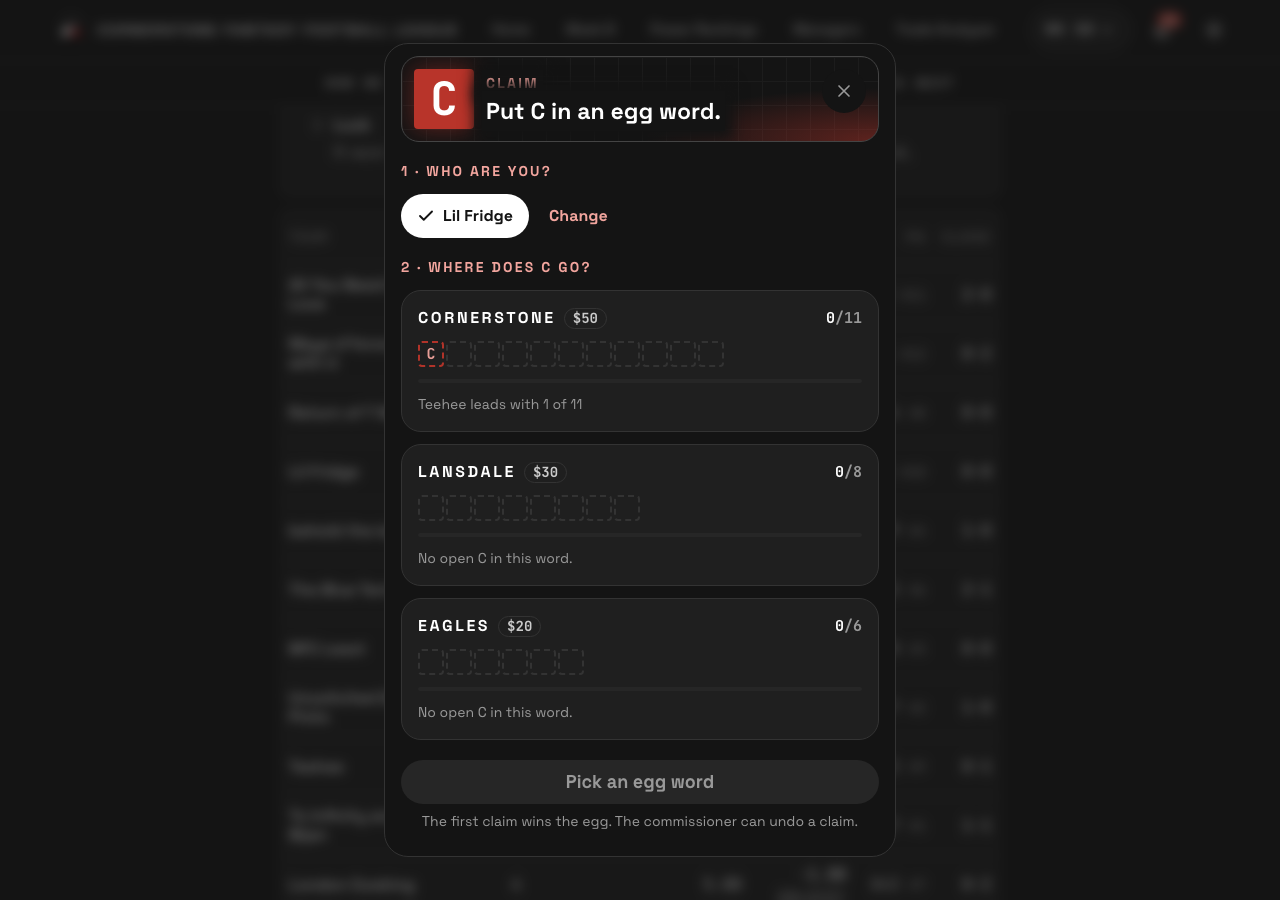
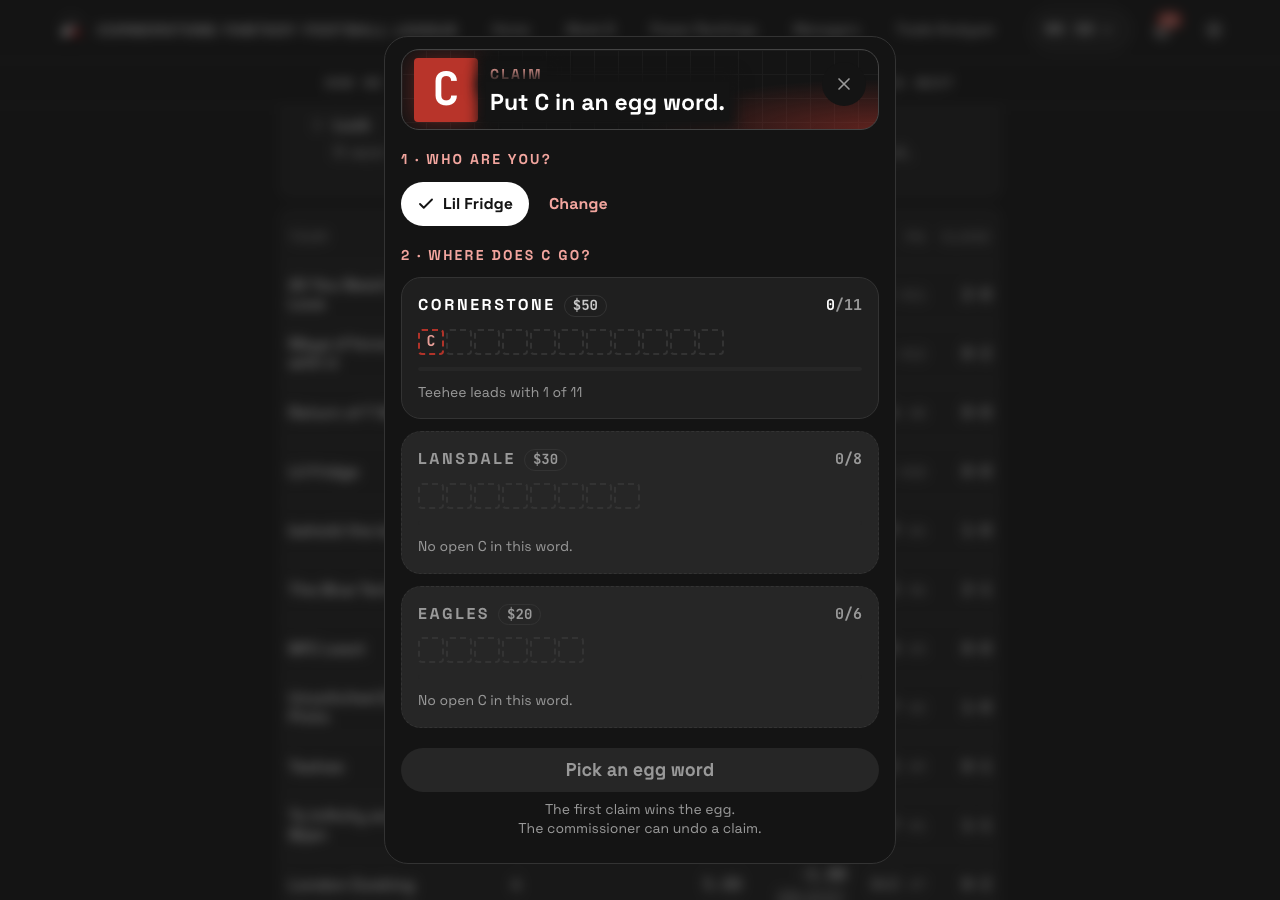
Record the evidence of easter-eggs again

diff --git a/.scratch/easter-eggs/evidence/tools/site.spec.ts b/.scratch/easter-eggs/evidence/tools/site.spec.ts
@@ -170,6 +170,11 @@ async function crack(page: Page) {
   await expect(page.getByTestId("egg-letter")).toBeVisible();
 }
 
+/* The full text of the banner line and whether the line is cut: its scrollWidth is wider than its clientWidth. */
+async function bannerLine(page: Page) {
+  return page.locator("[data-banner-line]").evaluate((line) => `line "${(line.textContent ?? "").replace(/\s+/g, " ").trim()}", scrollWidth ${line.scrollWidth}, clientWidth ${line.clientWidth}, cut ${line.scrollWidth > line.clientWidth}, height ${Math.round(line.getBoundingClientRect().height)} px`);
+}
+
 test.describe.configure({ mode: "serial" });
 test.setTimeout(0);
 
@@ -405,7 +410,7 @@ test("phase A1: six eggs, none claimed", async ({ browser }) => {
     await expect(banner).toBeVisible();
     await page.waitForTimeout(1200);
     await shot(page, "AT-41", "tuesday", width, theme);
-    log("AT-41", `tuesday ${width}-${theme} (clock 2026-11-10 12:00 ET): "${(await banner.innerText()).replace(/\n/g, " ")}", link ${await banner.getByRole("link").getAttribute("href")}`);
+    log("AT-41", `tuesday ${width}-${theme} (clock 2026-11-10 12:00 ET): ${await bannerLine(page)}; link ${await banner.getByRole("link").getAttribute("href")}`);
     await close();
   }
 
@@ -564,14 +569,14 @@ test("phase A2: the claim cards, the end to end flow, and the later states", asy
     await expect(banner).toBeVisible();
     await page.waitForTimeout(1200);
     await shot(page, "AT-41", "wednesday", width, theme);
-    const line = (await banner.innerText()).replace(/\n/g, " ");
+    const line = await bannerLine(page);
     const href = await banner.getByRole("link").getAttribute("href");
     await page.getByRole("button", { name: "Hide the banner" }).click();
     await page.reload();
     await expect(page.locator('header a[href$="/eggs/"]').first()).toBeVisible();
     await page.waitForTimeout(1500);
     await shot(page, "AT-41", "hidden", width, theme);
-    log("AT-41", `wednesday ${width}-${theme} (clock 2026-11-11 12:00 ET, one claim): "${line}", link ${href}; banners after the hide and the reload: ${await banner.count()}`);
+    log("AT-41", `wednesday ${width}-${theme} (clock 2026-11-11 12:00 ET, one claim): ${line}; link ${href}; banners after the hide and the reload: ${await banner.count()}`);
     await close();
   }
 
@@ -656,7 +661,7 @@ test("phase B: Teehee holds the C of CORNERSTONE", async ({ browser }) => {
     const words = page.getByRole("group", { name: "Egg word" });
     await words.scrollIntoViewIfNeeded();
     await shot(page, "AT-34", "teehee", width, theme);
-    const state = await words.evaluate((group) => [...group.querySelectorAll("button")].map((button) => `${button.innerText.split("\n")[0]} disabled=${button.disabled || button.getAttribute("aria-disabled") === "true"} ghost=${button.querySelectorAll("[data-ghost], .egg-ghost").length}`));
+    const state = await words.evaluate((group) => [...group.querySelectorAll("button")].map((button) => `${button.innerText.split("\n")[0]} disabled=${button.disabled || button.getAttribute("aria-disabled") === "true"} ghost=${button.querySelectorAll("[data-ghost], .egg-ghost").length} background=${getComputedStyle(button).backgroundColor} border=${getComputedStyle(button).borderTopStyle} ${getComputedStyle(button).borderTopColor} text=${getComputedStyle(button.querySelector("span, p, div") ?? button).color}`));
     const notice = page.getByText("Claim it as a block.");
     if (await notice.count()) await notice.scrollIntoViewIfNeeded();
     await shot(page, "AT-35", "", width, theme);
@@ -668,7 +673,7 @@ test("phase B: Teehee holds the C of CORNERSTONE", async ({ browser }) => {
     await page.waitForTimeout(900);
     await words.scrollIntoViewIfNeeded();
     await shot(page, "AT-34", "lil-fridge", width, theme);
-    const other = await words.evaluate((group) => [...group.querySelectorAll("button")].map((button) => `${button.innerText.split("\n")[0]} disabled=${button.disabled || button.getAttribute("aria-disabled") === "true"} ghost=${button.querySelectorAll("[data-ghost], .egg-ghost").length}`));
+    const other = await words.evaluate((group) => [...group.querySelectorAll("button")].map((button) => `${button.innerText.split("\n")[0]} disabled=${button.disabled || button.getAttribute("aria-disabled") === "true"} ghost=${button.querySelectorAll("[data-ghost], .egg-ghost").length} background=${getComputedStyle(button).backgroundColor} border=${getComputedStyle(button).borderTopStyle} ${getComputedStyle(button).borderTopColor} text=${getComputedStyle(button.querySelector("span, p, div") ?? button).color}`));
     log("AT-34", `lil-fridge ${width}-${theme}: ${other.join("; ")}`);
     await close();
   }

diff --git a/.scratch/easter-eggs/evidence/AT-3/clock-check.py b/.scratch/easter-eggs/evidence/AT-3/clock-check.py
@@ -1,0 +1,39 @@
+"""
+AT-3 of easter-eggs: the real API app with the real CPC client, a temp egg store, and the clock of the hunt set by hand.
+The real clock is outside the window 23:00-00:00 ET, so the script sets the clock of the app and sends each check over HTTP.
+"""
+import json
+import tempfile
+from datetime import datetime
+from pathlib import Path
+from zoneinfo import ZoneInfo
+
+from fastapi.testclient import TestClient
+
+from cornerstone_api.app import create_app, load_clients
+from cornerstone_api.settings import Settings
+
+ET = ZoneInfo("America/New_York")
+REPO = Path(__file__).resolve().parents[4]
+T2 = {"page": "/2026/week-08/", "target": "number-median", "action": "tap2", "conditions": {"clock": "23:00-00:00"}}
+CHECK = {"page": "/2026/week-08/", "target": "number-median", "action": "tap2", "conditions": {"theme": "dark"}}
+
+with tempfile.TemporaryDirectory() as eggs:
+    clients = load_clients(REPO)
+    settings = Settings(passphrases={c.slug: "localtest" for c in clients}, repo=REPO, result_cache_dir=Path(eggs) / "results",
+                        commissioner_keys={c.slug: "localkey" for c in clients if "eggs" in c.values.packages},
+                        eggs_dir=Path(eggs), rate_limit_per_minute=600)
+    api = TestClient(create_app(settings, clients))
+    print(f"The app: the real clients {[c.slug for c in clients]}, the temp egg store {eggs}/cpc.sqlite.")
+    drop = {"week": 9, "eggs": [T2]}
+    answer = api.post("/clients/cpc/eggs/drop", json=drop, headers={"X-Commissioner-Key": "localkey"})
+    print(f"POST /clients/cpc/eggs/drop {json.dumps(drop)}")
+    print(f"  -> HTTP {answer.status_code} {answer.text}")
+    hunt = api.app.state.hunts["cpc"]
+    for at in (datetime(2026, 11, 10, 22, 59, tzinfo=ET), datetime(2026, 11, 10, 23, 30, tzinfo=ET),
+               datetime(2026, 11, 11, 0, 0, tzinfo=ET)):
+        hunt.clock = lambda at=at: at
+        answer = api.post("/clients/cpc/eggs/check", json=CHECK)
+        print(f"clock of the hunt set to {at.isoformat()} ({at.strftime('%H:%M %Z')})")
+        print(f"  POST /clients/cpc/eggs/check {json.dumps(CHECK)}")
+        print(f"  -> HTTP {answer.status_code} {answer.text}")

diff --git a/.scratch/easter-eggs/EVIDENCE.md b/.scratch/easter-eggs/EVIDENCE.md
@@ -1,7 +1,7 @@
 # Easter eggs: evidence
 
 Spec: `.scratch/easter-eggs/PRD.md`. Acceptance tests: `.scratch/easter-eggs/ACCEPTANCE.md`.
-Built from: `f255557d`, on 2026-11-07. The agent gives no Test verdict. The Judge gives one for each test in `VERDICTS.md`.
+Built from: `f255557d`, on 2026-11-07. AT-3, AT-34, AT-41, and AT-50 ran again at `4f87122b`, after the fixes E1, E2, and E3. The agent gives no Test verdict. The Judge gives one for each test in `VERDICTS.md`.
 Round time: the runner did not run, because a server that is not ours holds its fixed port 4173. The Playwright phases of `evidence/tools/site.spec.ts` took 15 min for 27 site tests.
 
 The API ran on this machine like `make -C apps/api api-evidence`: passphrase `localtest`, commissioner key `localkey`, and a temp `CORNERSTONE_EGGS_DIR` outside the repo for each store. The scripts are in `evidence/tools/`. The real path of each eggs route is `/clients/cpc/eggs/<route>`. The tests write `/cpc/eggs/`.
@@ -25,8 +25,8 @@ Observation: The same check with the theme dark answered HTTP 200 with {"match":
 
 App: pipeline
 Then: The answer is no match. The same check inside the window matches.
-Files: `evidence/AT-3/output.txt`
-Observation: At 00:40 ET the check of T2 (window 23:00-00:00) answered {"match":false}. Only a test can set the API clock, so the check inside the window is the API test of the window, which passed: 22:59 ET no match, 23:30 ET a match, 23:30 Los Angeles no match, 00:00 ET no match. An extra real check of a twin egg with the window 00:00-02:00 matched at 00:41 ET. The real path of each route has the prefix /clients/cpc/eggs/; the test writes /cpc/eggs/.
+Files: `evidence/AT-3/clock-check.py`, `evidence/AT-3/output.txt`
+Observation: The real check of T2 at 00:40 ET answered {"match":false}. The real clock is outside the window 23:00-00:00 ET, so clock-check.py builds the real API app (create_app, the real clients, a temp egg store), drops T2 through the drop route, and sets the clock of the hunt in the app. Over HTTP, the check of T2 answered {"match":false} at 22:59 ET, {"match":true,"claimed":false,"letter":"A","token":...} at 23:30 ET, and {"match":false} at 00:00 ET. T2 is the only egg of that store, so its letter is A there. The real path of each route has the prefix /clients/cpc/eggs/; the test writes /cpc/eggs/.
 
 ## AT-4: A sim condition holds
 
@@ -243,7 +243,7 @@ Observation: The sheet shows 11 team pills at each width and theme: The Blue Ten
 App: site
 Then: CORNERSTONE is faded and disabled. A ghost tile pulses in its C slot only on a word with an open slot.
 Files: `evidence/AT-34/lil-fridge-1280-dark.png`, `evidence/AT-34/lil-fridge-1280-light.png`, `evidence/AT-34/lil-fridge-375-dark.png`, `evidence/AT-34/lil-fridge-375-light.png`, `evidence/AT-34/lil-fridge-768-dark.png`, `evidence/AT-34/lil-fridge-768-light.png`, `evidence/AT-34/site-B.txt`, `evidence/AT-34/steps.txt`, `evidence/AT-34/teehee-1280-dark.png`, `evidence/AT-34/teehee-1280-light.png`, `evidence/AT-34/teehee-375-dark.png`, `evidence/AT-34/teehee-375-light.png`, `evidence/AT-34/teehee-768-dark.png`, `evidence/AT-34/teehee-768-light.png`
-Observation: With Teehee holding the C of CORNERSTONE, the pick of Teehee shows CORNERSTONE faded with its C and "No open C in this word.", and each word button is disabled with 0 ghost tiles. LANSDALE and EAGLES have no C, so they are disabled too. The pick of Lil Fridge, in the same sheet, shows CORNERSTONE enabled with 1 ghost tile, and LANSDALE and EAGLES disabled with 0.
+Observation: At 4f87122b, with Teehee picked, CORNERSTONE, LANSDALE, and EAGLES are disabled with 0 ghost tiles, and each shows a dashed edge, a grey surface, and grey text. The computed values are background rgb(235, 235, 235), border dashed, and text rgb(102, 102, 102) in light, and background rgb(38, 38, 38), border dashed, and text rgb(153, 153, 153) in dark. With Lil Fridge picked, CORNERSTONE is enabled with 1 ghost tile, a white surface, a solid edge, and dark text rgb(20, 20, 20). LANSDALE and EAGLES stay disabled and faded. This holds at each width and theme.
 
 ## AT-35: The block notice
 
@@ -292,7 +292,7 @@ Observation: Six eggs of week 9, none claimed. On the home page, week 8, and /mi
 App: site
 Then: On Tuesday the banner reads "6 eggs dropped today · 6 left". On Wednesday it reads "6 eggs dropped Tue · 5 left". It links to `/eggs/`, and after the reload it stays hidden.
 Files: `evidence/AT-41/hidden-1280-dark.png`, `evidence/AT-41/hidden-1280-light.png`, `evidence/AT-41/hidden-375-dark.png`, `evidence/AT-41/hidden-375-light.png`, `evidence/AT-41/hidden-768-dark.png`, `evidence/AT-41/hidden-768-light.png`, `evidence/AT-41/site-A1.txt`, `evidence/AT-41/site-A2.txt`, `evidence/AT-41/steps.txt`, `evidence/AT-41/tuesday-1280-dark.png`, `evidence/AT-41/tuesday-1280-light.png`, `evidence/AT-41/tuesday-375-dark.png`, `evidence/AT-41/tuesday-375-light.png`, `evidence/AT-41/tuesday-768-dark.png`, `evidence/AT-41/tuesday-768-light.png`, `evidence/AT-41/wednesday-1280-dark.png`, `evidence/AT-41/wednesday-1280-light.png`, `evidence/AT-41/wednesday-375-dark.png`, `evidence/AT-41/wednesday-375-light.png`, `evidence/AT-41/wednesday-768-dark.png`, `evidence/AT-41/wednesday-768-light.png`
-Observation: The drop time of week 9 was set to the real Tuesday 2026-11-10 09:00 ET with sqlite3 in the temp store, and the browser clock was fixed. On Tuesday noon the banner reads "6 eggs dropped today · 6 left". On Wednesday noon after one claim it reads "6 eggs dropped Tue · 5 left". It links to /eggs/, and after the hide and a reload, 0 banners show. At 375 px the line is cut with an ellipsis after "6 l...", so the count left is not visible in the 375 shots; the DOM holds the full line.
+Observation: At 4f87122b, the drop time of week 9 was set to the real Tuesday 2026-11-10 09:00 ET with sqlite3 in the temp store, and the browser clock was fixed. On Tuesday noon the banner line reads "6 eggs dropped today · 6 left". On Wednesday noon, after one claim, it reads "6 eggs dropped Tue · 5 left". At every width and theme, scrollWidth equals clientWidth, so the line is not cut. At 375 px the Tuesday line wraps to two lines (40 px high). The banner links to /eggs/, and after the hide and a reload, 0 banners show.
 
 ## AT-42: The hero of the egg board
 
@@ -355,7 +355,7 @@ Observation: With reduced motion, 100 ms after the tap on the egg, each shot sho
 App: site
 Then: Each one passes.
 Files: `evidence/AT-50/floor-eggs.txt`, `evidence/AT-50/site-A1.txt`, `evidence/AT-50/steps.txt`
-Observation: CLIENT=cpc pnpm check:floor -g /eggs/ passed. It covered only the fast sweep of /eggs/ at 390 px dark, because its server uses a free port that the API does not allow, so the board did not load. The floor scans of apps/site/e2e/floor.ts, run on our server on 4174 at 390 and 1280 px in each theme, gave 0 text, target, and scroll failures on the loaded board, the claim sheet, and the banner. The contrast scan gave 0 for the banner, 3 axe "incomplete" items for the board (count values too short to judge), and 1 "incomplete" item for the sheet (a background axe could not find, or a tile too short to judge). The check counts an incomplete item as a failure.
+Observation: At 4f87122b, CLIENT=cpc pnpm check:floor -g /eggs/ passed after a plain CPC build. By design it covers only the static shell of /eggs/: ADR 0025 keeps any state that needs the live API out of the check, because a fake API is a mock, and CI has no API. The loaded board, the claim sheet, and the banner got the same four scans of floor.ts (text, contrast, targets, scroll) in the phase A1 run on 4174, at 390 and 1280 px in each theme. The scans gave 0 failures of each kind on all three, with no axe incomplete item.
 
 ## AT-51: The whole flow, end to end
 
